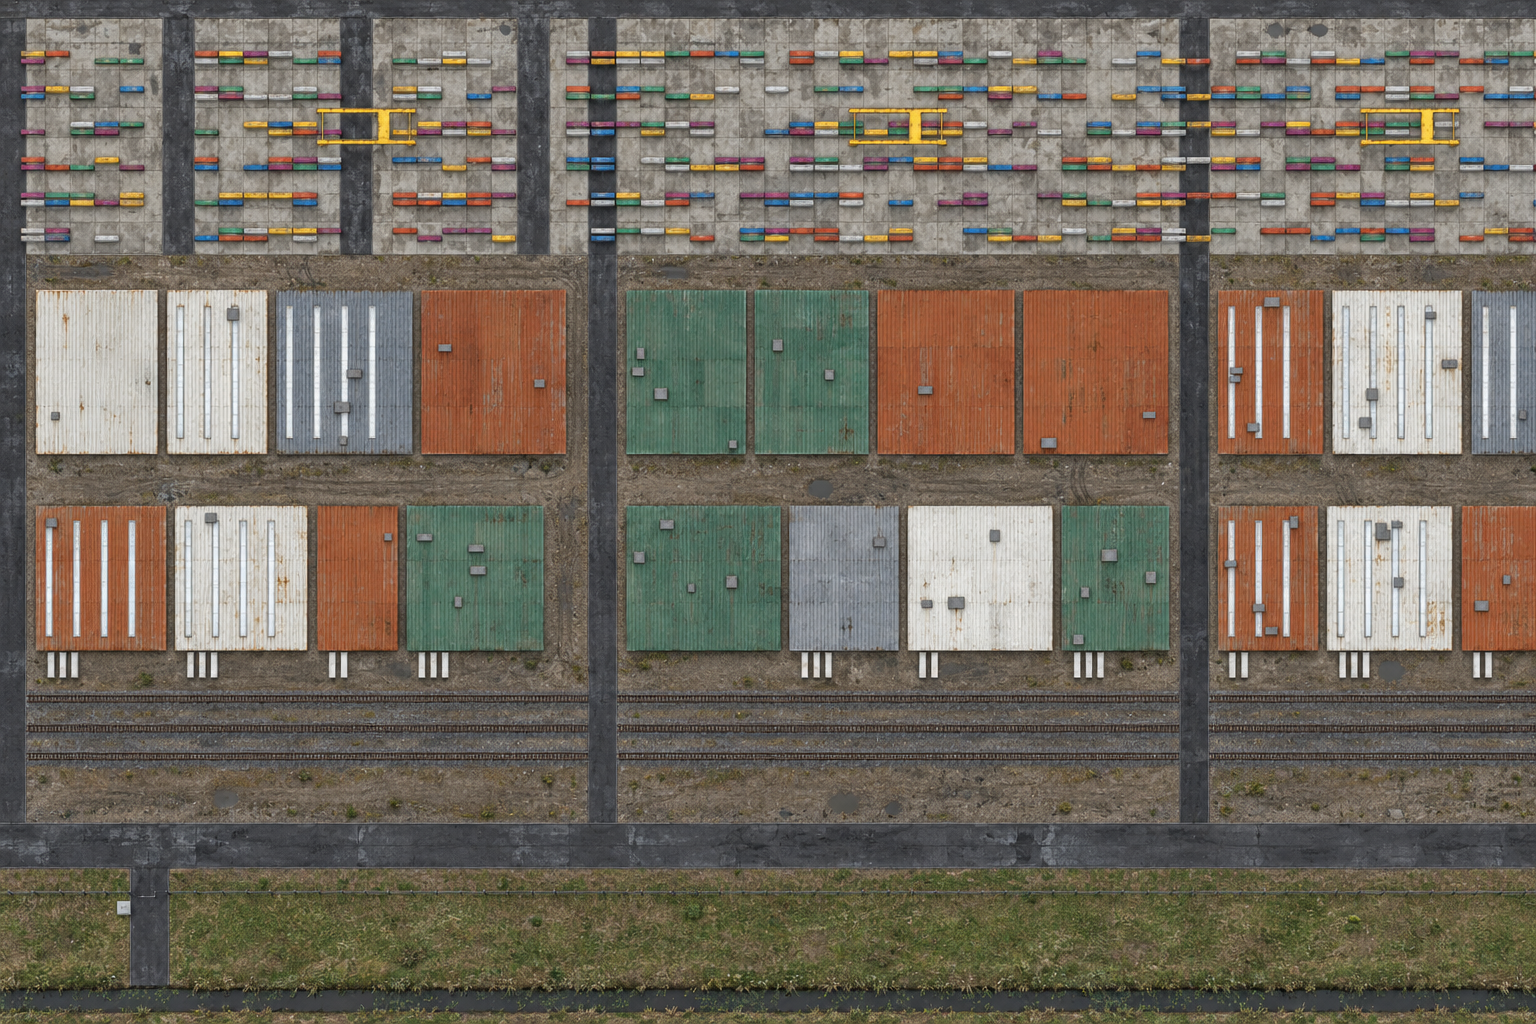
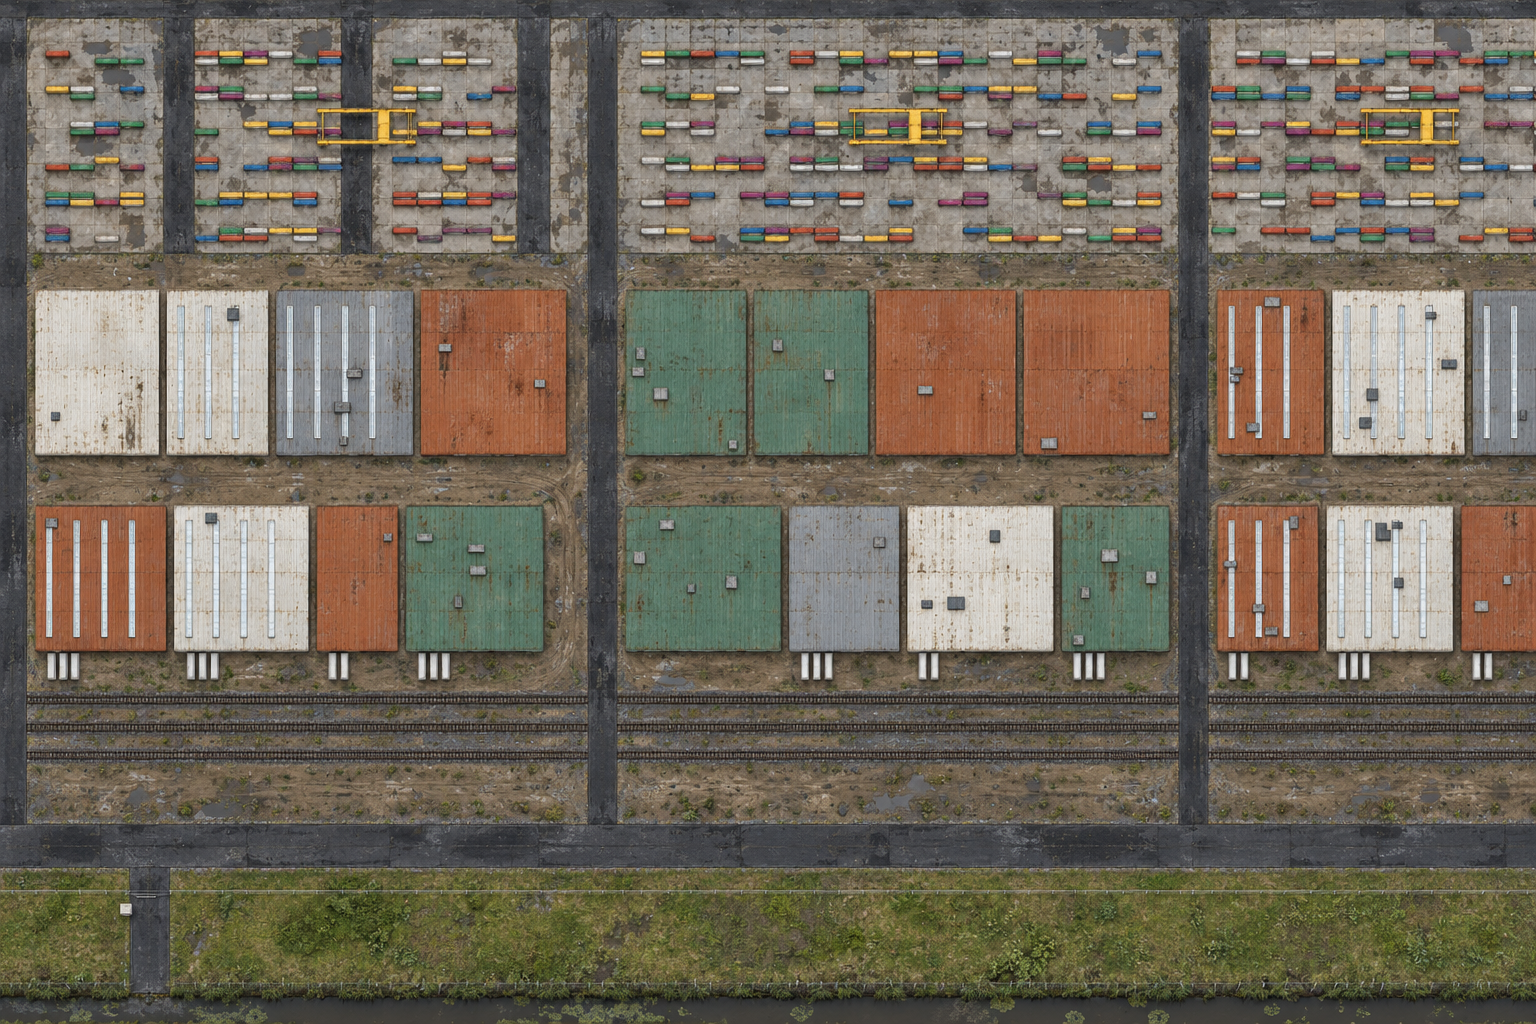
C4: the cross streets run clear through the container yard
Containers stood across all three north-south streets where they cross the
container yard. Slots on a street are now left empty (still drawing their
random numbers, so every other stack keeps its place and colour), and the
three belt paintings are repainted to match.

diff --git a/art-source/company-prologue/second-wind-cinematic/industrial-exterior/c4x_scene.py b/art-source/company-prologue/second-wind-cinematic/industrial-exterior/c4x_scene.py
@@ -229,6 +229,7 @@ def stack(bm, x, y, h, r):
 
 STACKS = []       # (x, y, top height) for the steam plumes
 WAREHOUSES = []   # (x, y, w, d, h) footprints, for roof detail and loading docks
+CROSS_STREETS = (-300.0, 0.0, 300.0)   # north-south streets from the freight road through to the port
 
 
 def plane(name, x0, x1, y0, y1, mat, z=0.0):
@@ -314,7 +315,7 @@ def add_yard():
     plane('Container yard', -600, 600, 215, 335, concrete, 0.05)
     plane('Loading strip', -600, 600, 336, 358, asphalt, 0.07)
     plane('Port apron', -2000, 2000, 360, 2500, material('Apron', (0.18, 0.18, 0.17), 0.9), 0.04)
-    for x in (-300, 0, 300):
+    for x in CROSS_STREETS:
         plane('Cross street %d' % x, x - 7, x + 7, -75, 360, asphalt, 0.06)
     roofs = [material('Roof rust', (0.42, 0.22, 0.12), 0.7, 0.3),
              material('Roof grey', (0.38, 0.40, 0.42), 0.5, 0.5),
@@ -348,9 +349,14 @@ def add_yard():
         x = -560
         while x < 560:
             if rng.random() < 0.85 and all(abs(x + 6 - a) > 13 for a in aisles):
+                # The cross streets run on through the yard to the loading strip: nothing stands on
+                # them. A slot there still draws its numbers, so every other stack stays as it was.
+                on_street = any(abs(x + 6 - s) < 14 for s in CROSS_STREETS)
                 for level in range(rng.randrange(1, 4)):
-                    box(cms[rng.randrange(len(colours))], (12, 2.4, 2.6),
-                        (x + 6, y + rng.choice((-2, 2)), 1.3 + 2.6 * level))
+                    c = cms[rng.randrange(len(colours))]
+                    pos = (x + 6, y + rng.choice((-2, 2)), 1.3 + 2.6 * level)
+                    if not on_street:
+                        box(c, (12, 2.4, 2.6), pos)
             x += 12.6
     for i, (bm, c) in enumerate(zip(cms, colours)):
         mesh('Containers %d' % i, bm, material('Container %d' % i, c, 0.6, 0.2))
